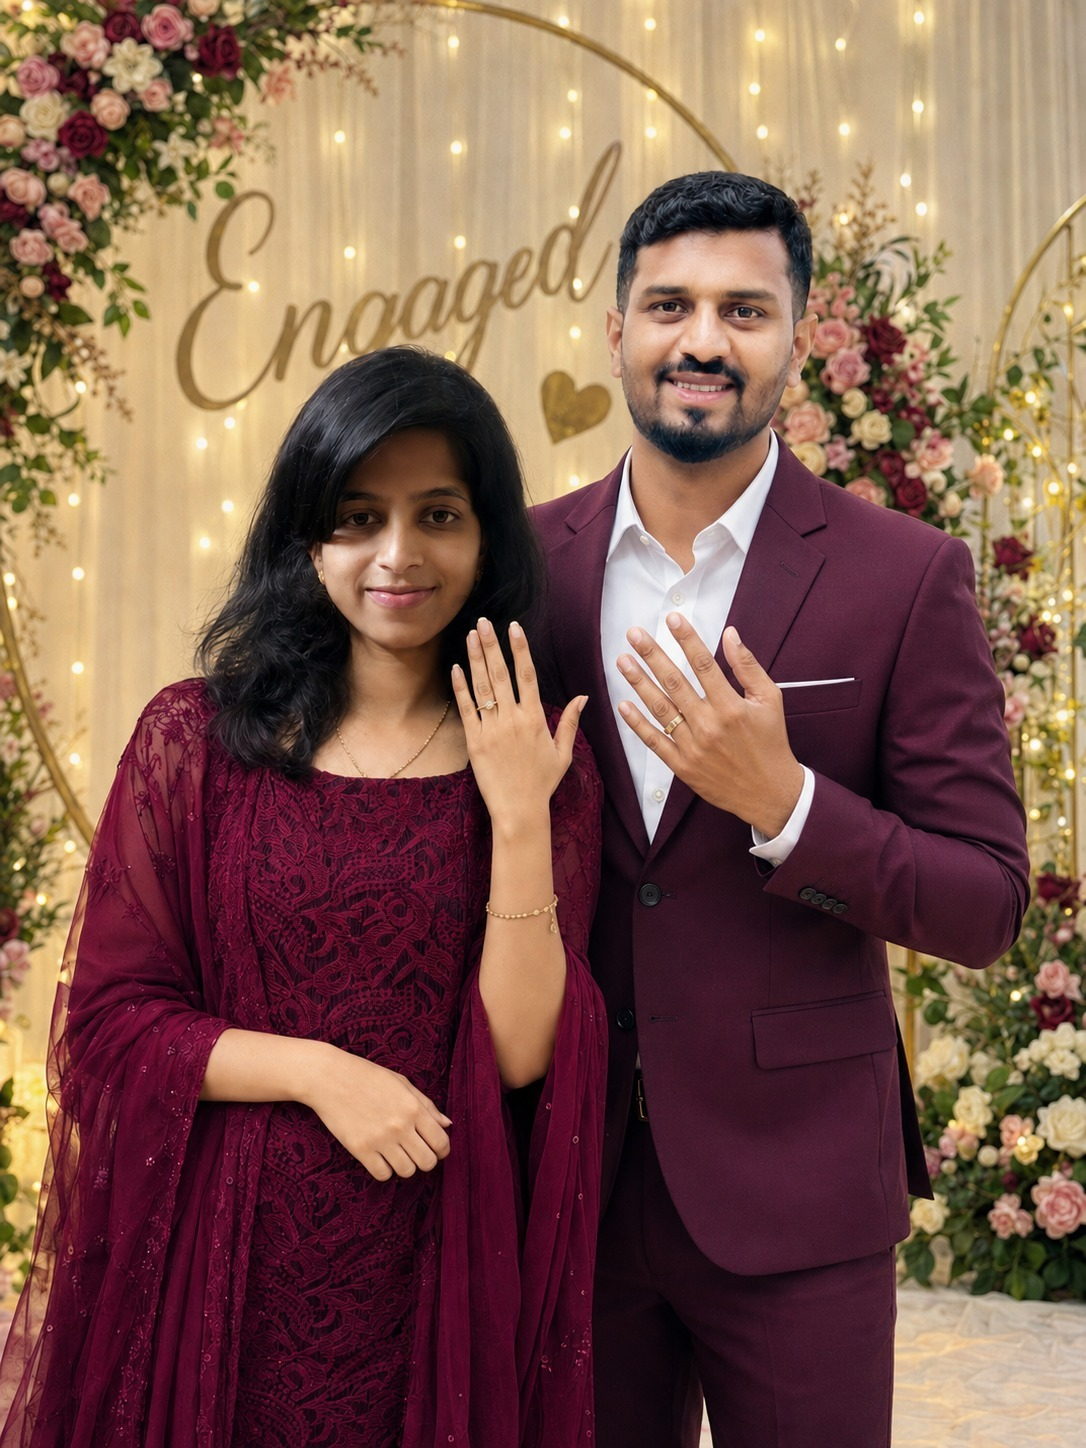
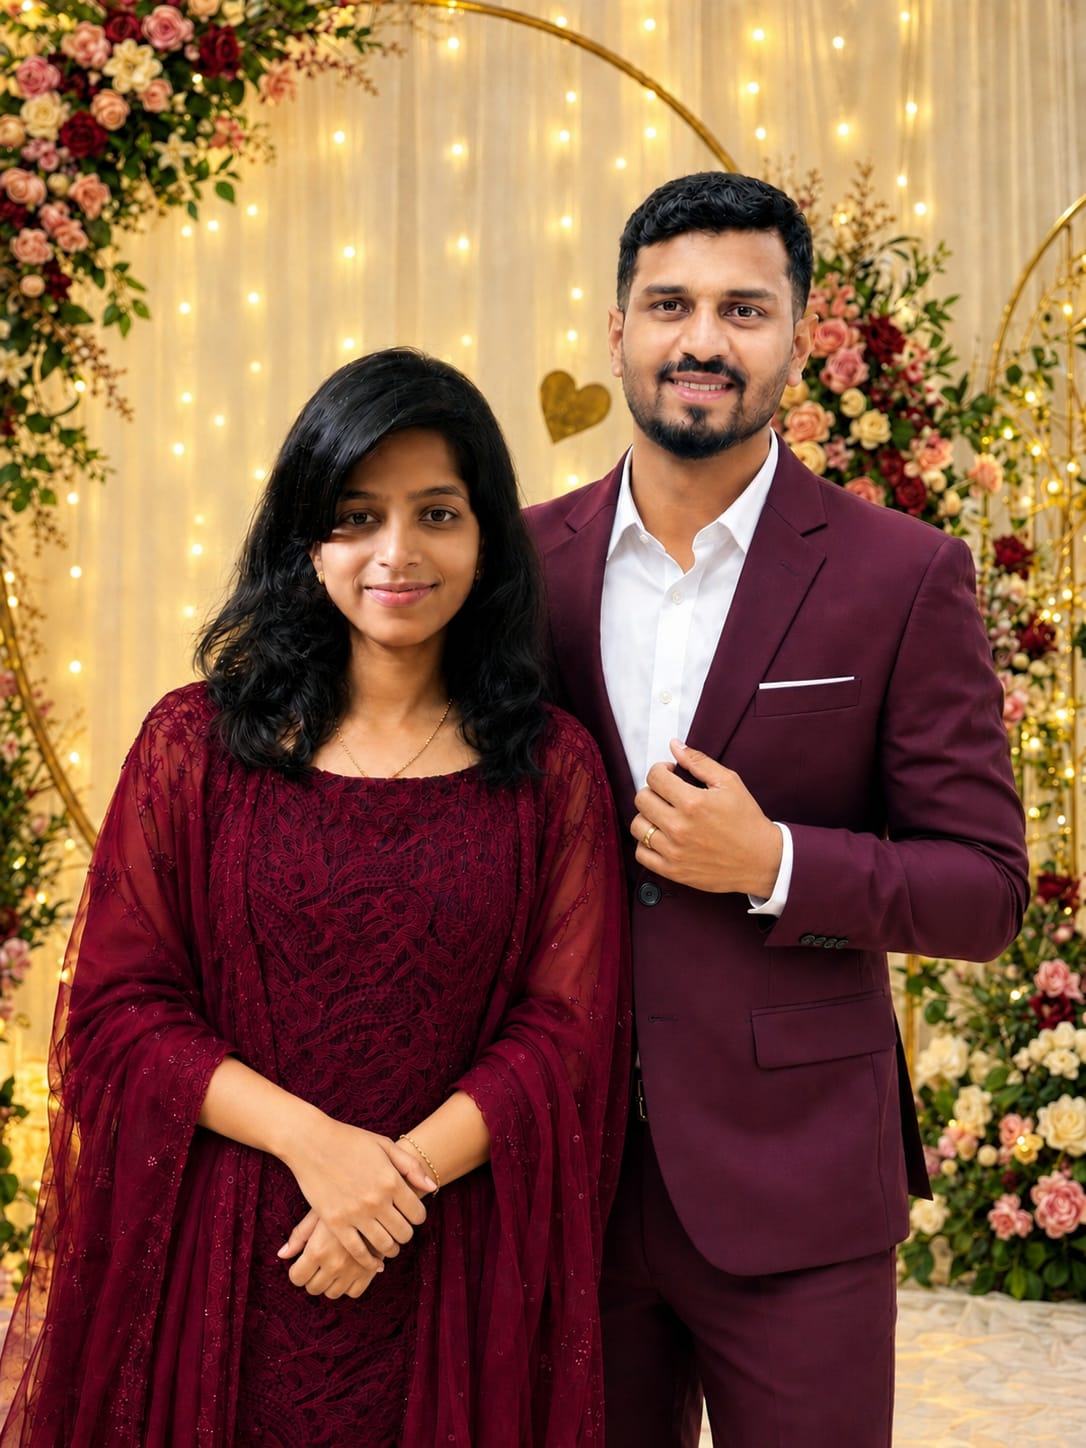
New changes done for Engagement Website

diff --git a/src/app/components/hero/hero.scss b/src/app/components/hero/hero.scss
@@ -49,8 +49,11 @@
     text-transform: uppercase;
     color: #f5e6d3;
     margin: 0;
+    display: inline-block;
     text-shadow: 0 1px 4px rgba(0, 0, 0, 0.5);
-    animation: heroSmallReveal 1s cubic-bezier(0.16, 1, 0.3, 1) 0.1s both;
+    animation:
+      heroZoomReveal 1s cubic-bezier(0.16, 1, 0.3, 1) 0.1s both,
+      zoomBlinkPulse 2.5s ease-in-out infinite 1.1s;
 
     @media (max-width: 480px) {
       font-size: 0.75rem;
@@ -76,12 +79,12 @@
 
   &__names-text {
     font-family: var(--font-display);
-    font-size: clamp(1.5rem, 5vw, 3.8rem);
+    font-size: clamp(1.5rem, 5vw, 3.25rem);
     color: #ffffff;
     font-weight: 400;
     margin: 0;
     text-align: center;
-    line-height: 1.2;
+    line-height: 0.75;
     animation:
       heroNamesReveal 1.4s cubic-bezier(0.16, 1, 0.3, 1) 0.3s both,
       goldNameShimmer 5s ease-in-out 3s infinite;
@@ -93,6 +96,17 @@
       font-size: 0.8em;
       margin: 0 0.2rem;
     }
+  }
+
+  &__names-heart {
+    font-size: clamp(2rem, 7vw, 3.5rem);
+    color: #c9a96e;
+    margin: 0;
+    text-align: center;
+    line-height: 1.2;
+    animation:
+      heroNamesReveal 1.4s cubic-bezier(0.16, 1, 0.3, 1) 0.3s both,
+      textBlink 3s ease-in-out infinite 3s;
   }
 }
 
@@ -108,10 +122,44 @@
   animation: heroGlowShift 18s ease-in-out infinite alternate;
 }
 
-/* Small text (pre) — slide only */
-@keyframes heroSmallReveal {
-  from { opacity: 0; transform: translateY(10px); }
-  to   { opacity: 1; transform: translateY(0); }
+/* Small text (pre) — zoom reveal on load */
+@keyframes heroZoomReveal {
+  0% {
+    opacity: 0;
+    transform: scale(0.3);
+  }
+  100% {
+    opacity: 1;
+    transform: scale(1);
+  }
+}
+
+@keyframes zoomBlinkPulse {
+  0%, 100% {
+    transform: scale(1);
+    color: #f5e6d3;
+    text-shadow: 0 1px 4px rgba(0, 0, 0, 0.5);
+  }
+  50% {
+    transform: scale(1.12);
+    color: #ffb7c5;
+    text-shadow: 0 0 18px rgba(255, 183, 197, 0.9);
+  }
+}
+
+@keyframes textBlink {
+  0%, 100% {
+    color: #94d4f4;
+    text-shadow: 0 1px 4px rgba(0, 0, 0, 0.5);
+  }
+  33% {
+    color: #f4a5e8;
+    text-shadow: 0 0 12px rgba(255, 183, 197, 0.8);
+  }
+  66% {
+    color: #a6f2aa;
+    text-shadow: 0 0 12px rgba(255, 215, 0, 0.8);
+  }
 }
 
 /* Date — fade + slides */

diff --git a/src/app/venue/venue.html b/src/app/venue/venue.html
@@ -5,12 +5,12 @@
     <h3>The Venue</h3>
     <p class="venue-name">SRT Kalyana Mantapa</p>
     <p class="venue-address">
-      K.R. Pete (Krishnarajpet) - Channarayapatna Road<br>
-      Kikkeri(Vaddarahalli), Karnataka 571423
+      K.R.PET - Channarayapatna Road<br>
+      Kikkeri - Lakshmipura, Karnataka 571423
     </p>
     <div class="venue-time">
       <!-- <p>Doors open at 6:30 PM</p> -->
-      <p>Ceremony at 09:00 AM</p>
+      <p>Ceremony starts at 10:00 AM</p>
     </div>
   </div>
 

diff --git a/src/app/components/hero/hero.html b/src/app/components/hero/hero.html
@@ -11,9 +11,11 @@
   <div class="hero__content">
     <p class="hero__pre">We are getting engaged</p>
 
-    <h1 class="hero__names-text">Sowndarya Gowda D M <span class="amp">&amp;</span> Pramoda K M</h1>
+    <h1 class="hero__names-text">Sowndarya Gowda D M</h1>
+    <h1 class="hero__names-heart">&#128149;</h1>
+    <h1 class="hero__names-text">Pramoda K M</h1>
 
-    <p class="hero__date">18 · 09 · 2026</p>
+    <!-- <p class="hero__date">18 · 09 · 2026</p> -->
 
   </div>
 

diff --git a/src/app/count-down/count-down.html b/src/app/count-down/count-down.html
@@ -28,9 +28,13 @@
   </div>
 </div>
 
-<p class="countdown__tagline" [class.visible]="isVisible">
+<!-- <p class="countdown__tagline" [class.visible]="isVisible">
   Join us as we celebrate the union of two souls — an evening of love,
   laughter, and dancing under the stars.
+</p> -->
+
+<p class="countdown__tagline" [class.visible]="isVisible">
+  Join us as we celebrate the union of two souls.
 </p>
 
 <div class="calendar-buttons" [class.visible]="isVisible">

diff --git a/src/app/count-down/count-down.scss b/src/app/count-down/count-down.scss
@@ -45,11 +45,12 @@
 
 .countdown__target {
   font-family: var(--font-accent);
-  font-size: 0.85rem;
+  font-size: 1.25rem;
   letter-spacing: 0.35em;
   text-transform: uppercase;
   color: #b898d4;
   margin: 0;
+  font-weight: 800;
 }
 
 .countdown__tagline {

diff --git a/src/styles.scss b/src/styles.scss
@@ -59,7 +59,7 @@ html, body {
   display: flex;
   flex-direction: column;
   align-items: center;
-  padding: clamp(4rem, 10vw, 7rem) 2rem;
+  padding: clamp(3rem, 10vw, 3rem) 5rem;
   gap: 2rem;
 
   @media (max-width: 600px) {
